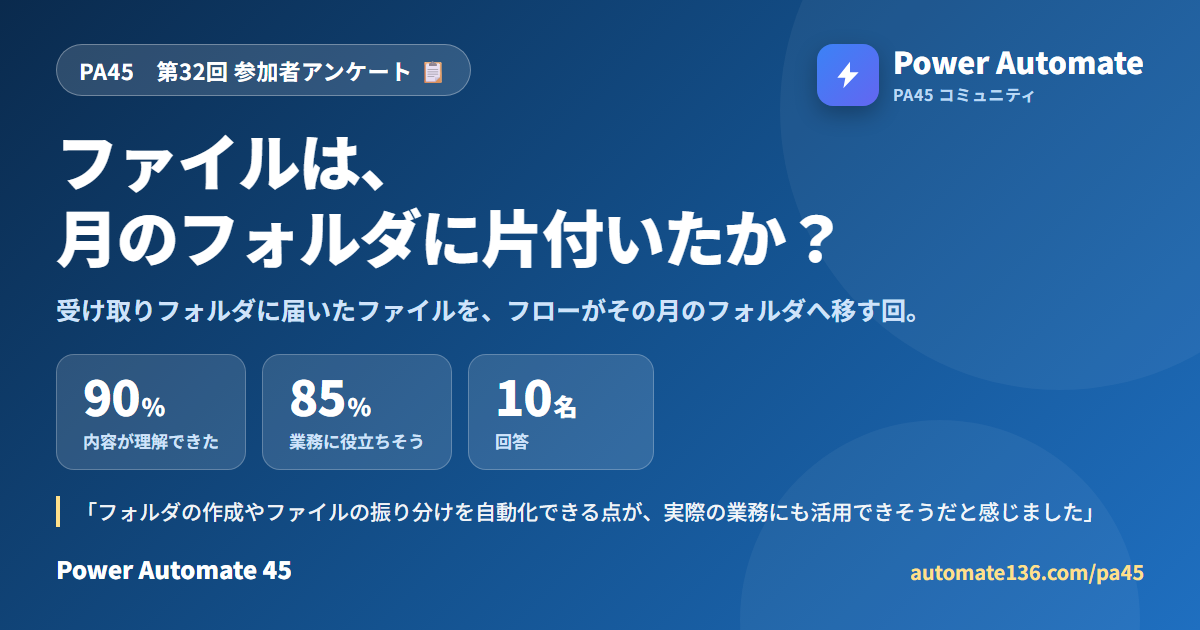
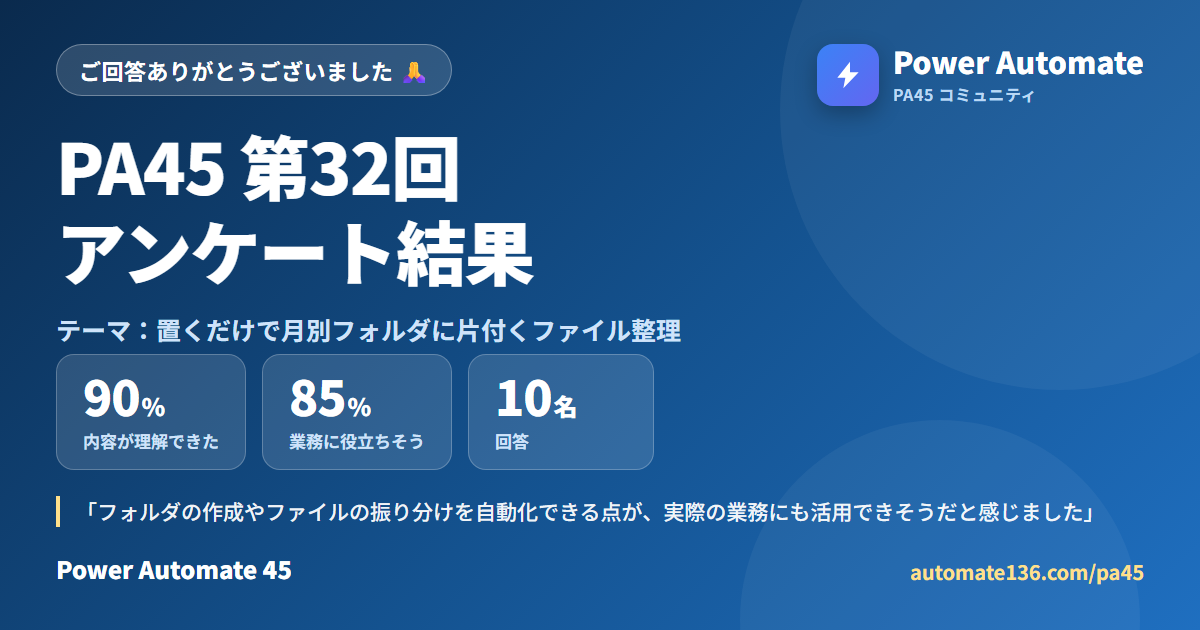
第32回 アンケートOGPの見出しを「PA45 第32回 アンケート結果」に（疑問文をやめる・お礼の札）

Changed region(s): [[0.0308, 0.2111, 0.7708, 0.5429], [0.0617, 0.0603, 0.4008, 0.1508]]

diff --git a/scripts/make-vol-survey-ogp.py b/scripts/make-vol-survey-ogp.py
@@ -82,8 +82,11 @@ VOL_TEXT = {
         "quote": "「SharePointに保管しておいてそのままPDFに変換できるのは便利ですね。業務で使ってみたいです」",
     },
     32: {
-        "title": "ファイルは、\n月のフォルダに片付いたか？",
-        "sub": "受け取りフォルダに届いたファイルを、フローがその月のフォルダへ移す回。",
+        # 2026-10-23 はる「疑問文はやめて。PA45 第32回のアンケート結果だと分かるように文字大きめ」
+        "pill": "ご回答ありがとうございました 🙏",
+        "title": "PA45 第32回\nアンケート結果",
+        "tsize": 70,
+        "sub": "テーマ：置くだけで月別フォルダに片付くファイル整理",
         "quote": "「フォルダの作成やファイルの振り分けを自動化できる点が、実際の業務にも活用できそうだと感じました」",
     },
 }
@@ -139,7 +142,7 @@ TEMPLATE = """<!doctype html>
     <div class="tx"><b>Power Automate</b><span>PA45 コミュニティ</span></div>
   </div>
   <div class="wrap">
-    <div class="pill">PA45　第{vol}回 参加者アンケート 📋</div>
+    <div class="pill">{pill}</div>
     <h1>{title}</h1>
     <div class="sub">{sub}</div>
     <div class="stats">{stats}</div>
@@ -155,7 +158,7 @@ def stat_html(n, unit, label):
             f'<div class="l">{label}</div></div>')
 
 
-def build(vol, title, sub, quote, tsize):
+def build(vol, title, sub, quote, tsize, pill=None):
     data = json.loads((SURVEY_DIR / f"vol-{vol:02d}.json").read_text(encoding="utf-8"))
     stats = [
         (round(data["understanding_pct"]), "%", "内容が理解できた"),
@@ -164,6 +167,7 @@ def build(vol, title, sub, quote, tsize):
     ]
     return TEMPLATE.format(
         vol=vol, title=title, sub=sub, tsize=tsize,
+        pill=pill or f"PA45　第{vol}回 参加者アンケート 📋",
         stats="".join(stat_html(*x) for x in stats),
         quote=f'<div class="quote">{quote}</div>' if quote else "",
     )
@@ -183,7 +187,7 @@ def main():
     sub = args.sub or preset.get("sub", "")
     quote = args.quote or preset.get("quote", "")
 
-    html = build(args.vol, title, sub, quote, args.tsize)
+    html = build(args.vol, title, sub, quote, preset.get("tsize", args.tsize), preset.get("pill"))
     out = OUT_DIR / f"pa45-vol{args.vol}-survey-ogp.png"
     OUT_DIR.mkdir(parents=True, exist_ok=True)
     with tempfile.TemporaryDirectory() as td:
